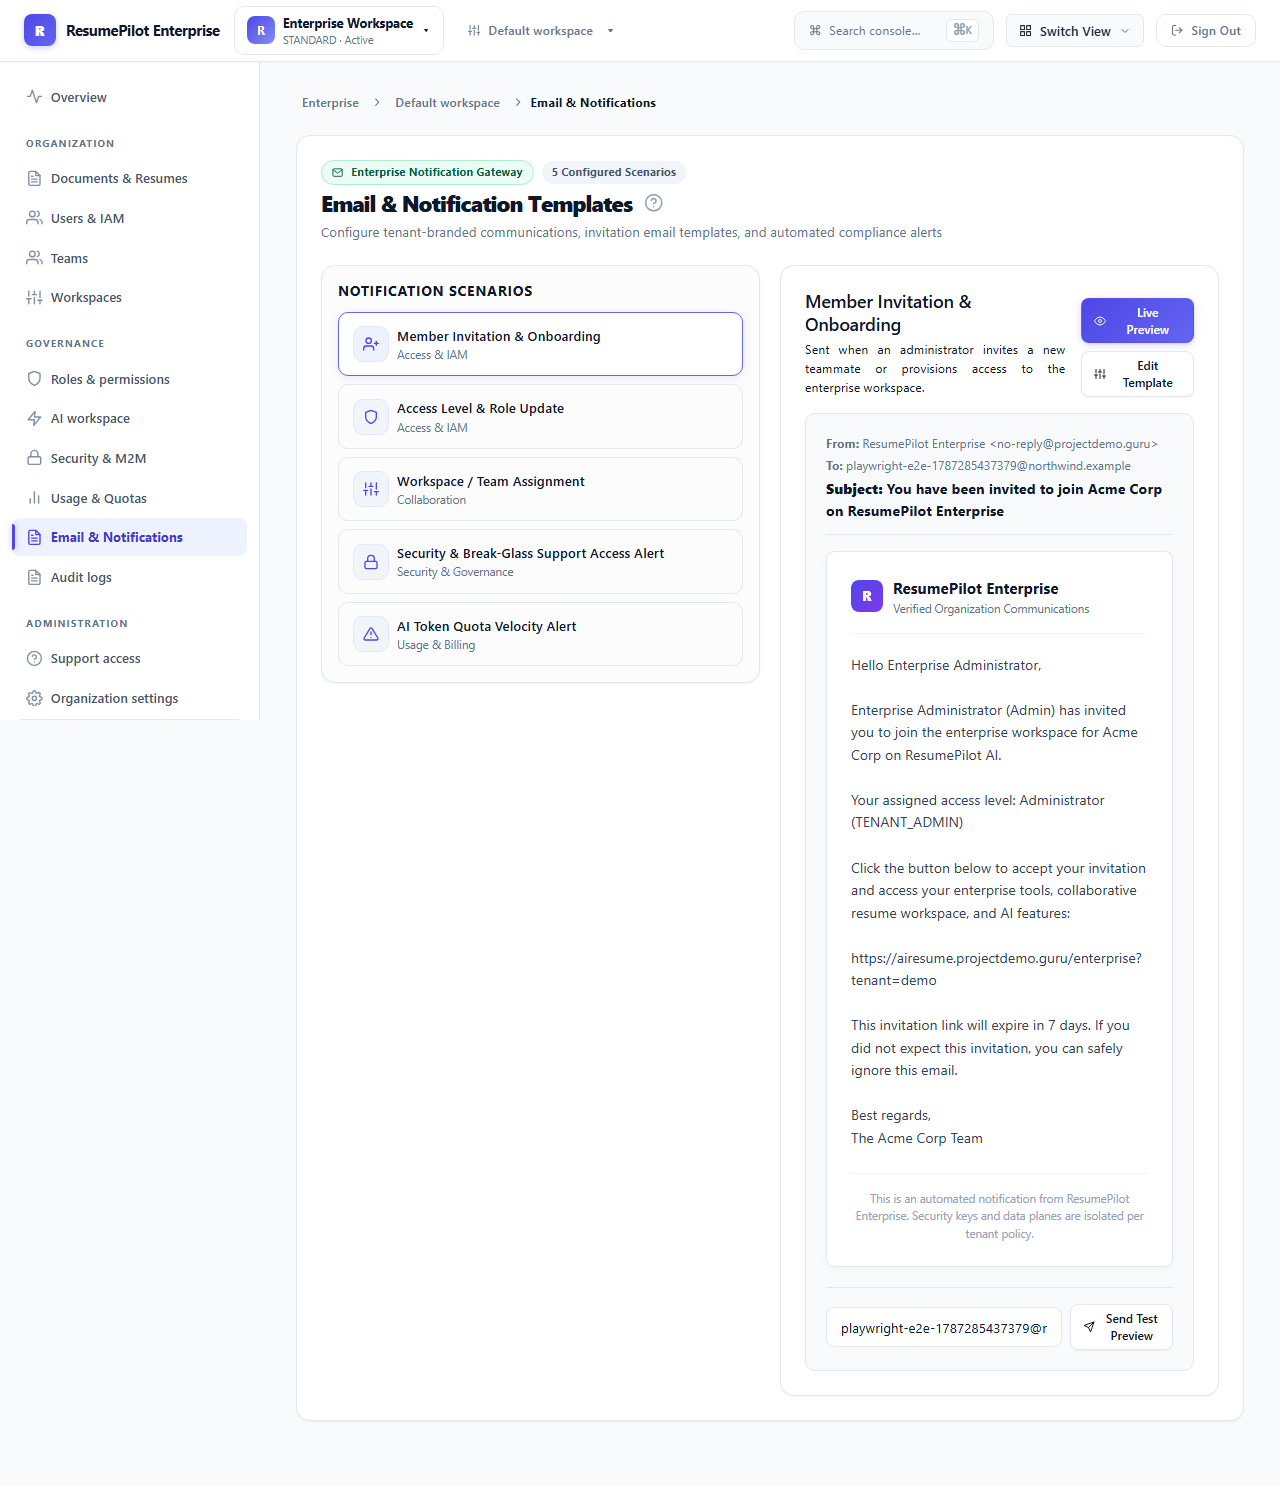
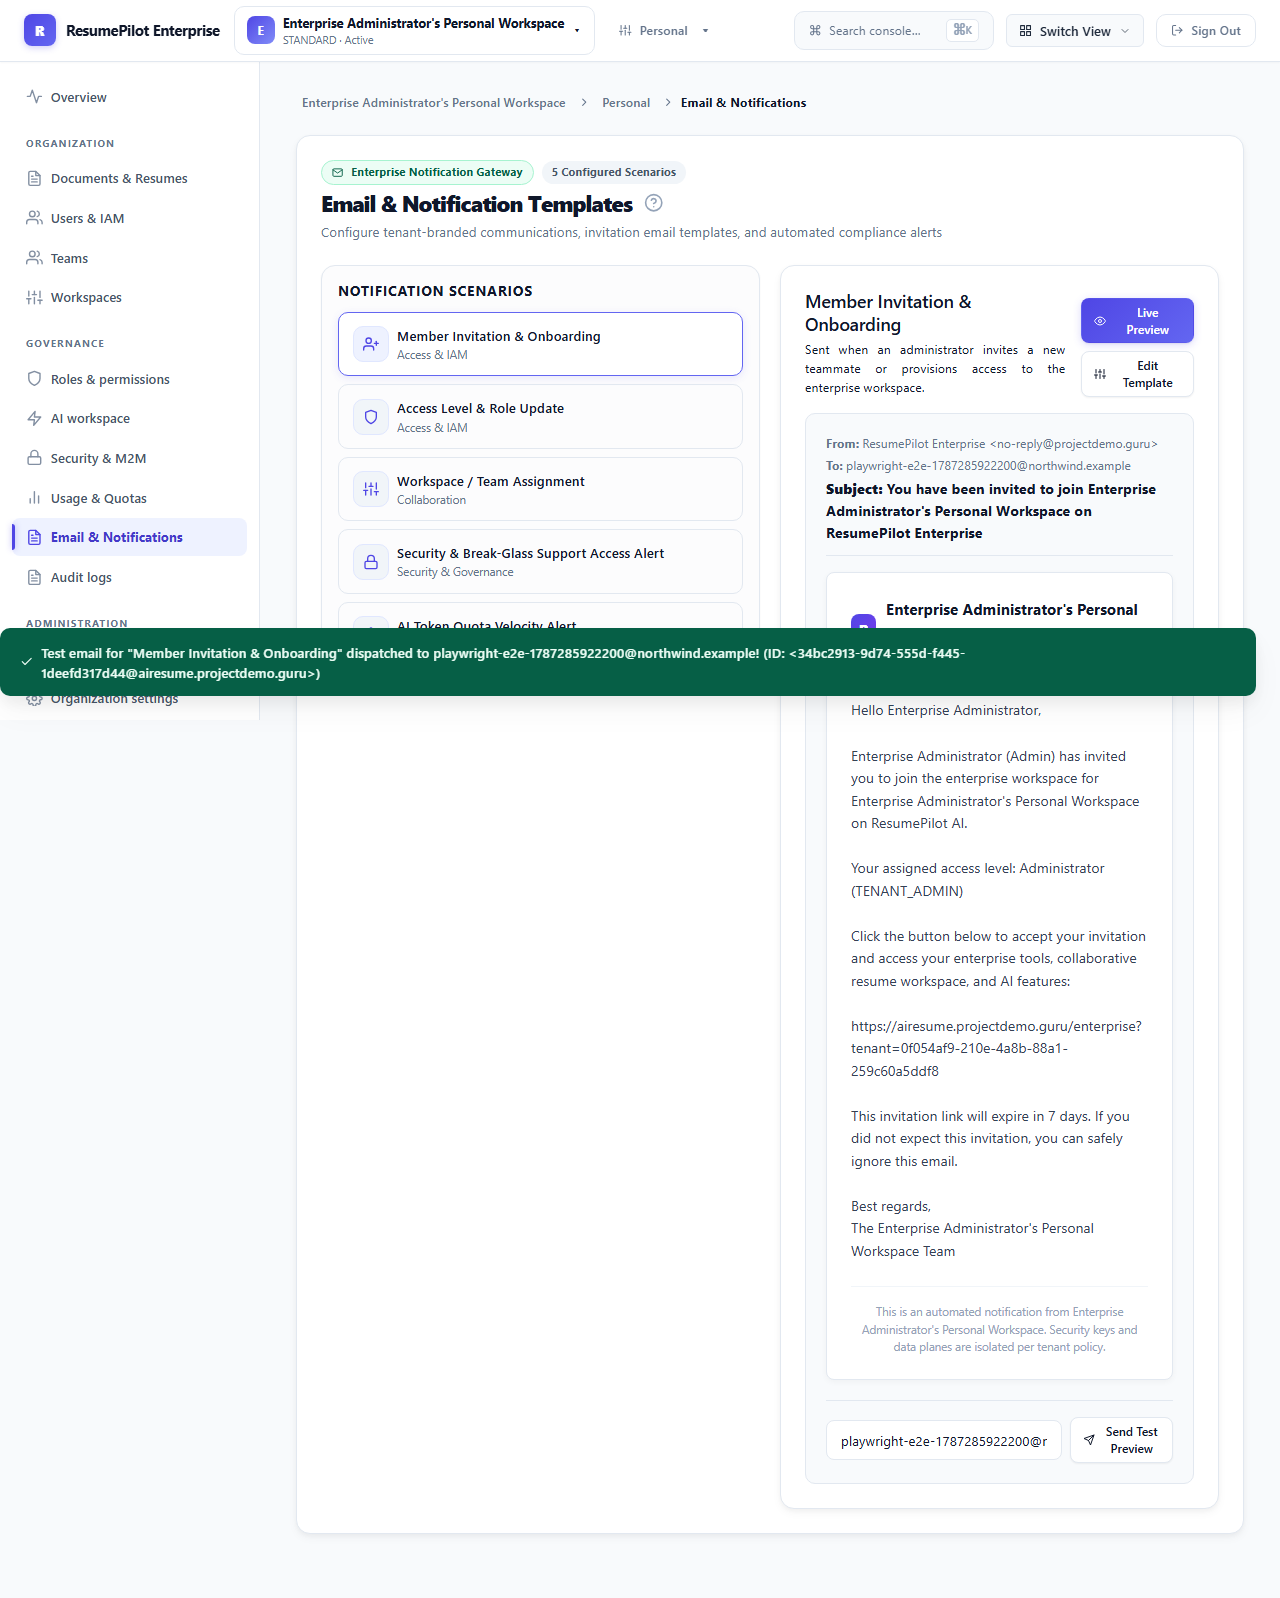
fix(enterprise): fix tooltip positioning/z-index clipping and implement live enterprise email dispatch pipeline

diff --git a/backend/routes/email.js b/backend/routes/email.js
@@ -775,6 +775,96 @@ function renderEmailTemplate(templateType, vars = {}, customHtmlMap = {}) {
             );
             break;
 
+        case 'enterprise-invitation':
+        case 'enterprise_invitation':
+        case 'invitation':
+            subject = vars.subject || `You have been invited to join ${vars.organization_name || 'Acme Corp'} on ResumePilot Enterprise`;
+            bodyHtml = buildEmailWrapper(
+                'Enterprise Workspace Invitation',
+                'ENTERPRISE INVITATION 🏢',
+                `
+                <h2 style="font-size: 20px; font-weight: 800; color: #0f172a; margin-top: 0;">Hello ${candidateName},</h2>
+                <p style="font-size: 14px; color: #475569; line-height: 1.6;">${vars.inviter_name || 'An administrator'} has invited you to join the enterprise organization <strong>${vars.organization_name || 'Enterprise Organization'}</strong> on ResumePilot AI.</p>
+                <div style="background: #f8fafc; border: 1px solid #e2e8f0; border-radius: 12px; padding: 18px; margin: 20px 0;">
+                    <p style="margin: 0 0 8px; font-size: 13px; color: #334155;"><strong>Assigned Access Level:</strong> ${vars.role_title || 'Enterprise Member (MEMBER)'}</p>
+                    <p style="margin: 0; font-size: 13px; color: #64748b;">Accept your invitation to access collaborative workspaces, resume drafting tools, and enterprise AI quotas.</p>
+                </div>
+                <div style="text-align: center; margin-top: 26px;">
+                    <a href="${vars.action_url || `${siteUrl}/enterprise`}" style="background: linear-gradient(135deg, #4f46e5 0%, #7c3aed 100%); color: #ffffff; padding: 14px 32px; text-decoration: none; border-radius: 10px; font-weight: 700; font-size: 14px; display: inline-block;">Accept Enterprise Invitation &rarr;</a>
+                </div>
+                <p style="font-size: 12px; color: #94a3b8; margin-top: 24px; text-align: center;">This invitation link will expire in 7 days. If you did not expect this invitation, you can safely ignore this email.</p>`
+            );
+            break;
+
+        case 'enterprise_role_update':
+        case 'role_update':
+            subject = vars.subject || `Access Level Updated: ${vars.role_title || 'New Role'} — ${vars.organization_name || brandName}`;
+            bodyHtml = buildEmailWrapper(
+                'Access Level Update Notice',
+                'ACCESS & IAM UPDATE 🛡',
+                `
+                <h2 style="font-size: 20px; font-weight: 800; color: #0f172a; margin-top: 0;">Hello ${candidateName},</h2>
+                <p style="font-size: 14px; color: #475569; line-height: 1.6;">Your access permissions for <strong>${vars.organization_name || 'your enterprise organization'}</strong> have been updated by ${vars.updater_name || 'an administrator'}.</p>
+                <div style="background: #eef2ff; border: 1px solid #c7d2fe; border-radius: 12px; padding: 18px; margin: 20px 0;">
+                    <p style="margin: 0; font-size: 14px; color: #3730a3; font-weight: 700;">New Access Role: ${vars.role_title || 'Updated Role'}</p>
+                </div>
+                <div style="text-align: center; margin-top: 24px;">
+                    <a href="${vars.action_url || `${siteUrl}/enterprise`}" style="background-color: #4f46e5; color: #ffffff; padding: 12px 28px; text-decoration: none; border-radius: 10px; font-weight: 700; font-size: 13px; display: inline-block;">Open Enterprise Console &rarr;</a>
+                </div>`
+            );
+            break;
+
+        case 'enterprise_workspace_assignment':
+        case 'workspace_assignment':
+            subject = vars.subject || `Assigned to ${vars.workspace_name || 'Workspace'} — ${vars.organization_name || brandName}`;
+            bodyHtml = buildEmailWrapper(
+                'Workspace Assignment',
+                'COLLABORATION UPDATE 🗂',
+                `
+                <h2 style="font-size: 20px; font-weight: 800; color: #0f172a; margin-top: 0;">Hello ${candidateName},</h2>
+                <p style="font-size: 14px; color: #475569; line-height: 1.6;">You have been assigned to workspace <strong>${vars.workspace_name || 'Workspace'}</strong> ${vars.team_name ? `and team <strong>${vars.team_name}</strong>` : ''} in ${vars.organization_name || 'ResumePilot Enterprise'}.</p>
+                <div style="text-align: center; margin-top: 24px;">
+                    <a href="${vars.action_url || `${siteUrl}/enterprise`}" style="background-color: #4f46e5; color: #ffffff; padding: 12px 28px; text-decoration: none; border-radius: 10px; font-weight: 700; font-size: 13px; display: inline-block;">Go to Workspace &rarr;</a>
+                </div>`
+            );
+            break;
+
+        case 'enterprise_security_alert':
+        case 'security_alert':
+            subject = vars.subject || `🚨 Security Alert: Break-Glass Support Access — ${vars.organization_name || brandName}`;
+            bodyHtml = buildEmailWrapper(
+                'Enterprise Security Alert',
+                'SECURITY ALERT 🚨',
+                `
+                <div style="background: #fef2f2; border: 1px solid #fecaca; border-radius: 12px; padding: 20px; margin-bottom: 20px;">
+                    <h3 style="color: #991b1b; margin: 0 0 6px 0; font-size: 16px; font-weight: 800;">Emergency Break-Glass Access Granted</h3>
+                    <p style="color: #7f1d1d; margin: 0; font-size: 13px; line-height: 1.5;">A time-bound support grant was authorized for support engineer <strong>${vars.support_agent || 'Support Engineer'}</strong>.</p>
+                </div>
+                <p style="font-size: 13px; color: #475569;"><strong>Reason:</strong> ${vars.reason || 'Technical investigation'}</p>
+                <p style="font-size: 13px; color: #475569;"><strong>Expires:</strong> ${vars.expires_at || 'In 4 hours'}</p>
+                <div style="text-align: center; margin-top: 24px;">
+                    <a href="${vars.action_url || `${siteUrl}/enterprise?tab=audit`}" style="background-color: #dc2626; color: #ffffff; padding: 12px 28px; text-decoration: none; border-radius: 10px; font-weight: 700; font-size: 13px; display: inline-block;">Review Audit Log &rarr;</a>
+                </div>`
+            );
+            break;
+
+        case 'enterprise_quota_alert':
+        case 'quota_alert':
+            subject = vars.subject || `⚠ AI Quota Alert: ${vars.usage_percent || '80'}% Consumed — ${vars.organization_name || brandName}`;
+            bodyHtml = buildEmailWrapper(
+                'AI Quota Alert',
+                'QUOTA WARNING ⚡',
+                `
+                <div style="background: #fffbeb; border: 1px solid #fef3c7; border-radius: 12px; padding: 20px; margin-bottom: 20px;">
+                    <h3 style="color: #92400e; margin: 0 0 6px 0; font-size: 16px; font-weight: 800;">Token Consumption Velocity Alert</h3>
+                    <p style="color: #b45309; margin: 0; font-size: 13px; line-height: 1.5;">Your organization has consumed <strong>${vars.usage_percent || '85'}%</strong> of its monthly AI token allocation (${vars.consumed_tokens || '850,000'} / ${vars.quota_limit || '1,000,000'} tokens).</p>
+                </div>
+                <div style="text-align: center; margin-top: 24px;">
+                    <a href="${vars.action_url || `${siteUrl}/enterprise?tab=usage`}" style="background-color: #d97706; color: #ffffff; padding: 12px 28px; text-decoration: none; border-radius: 10px; font-weight: 700; font-size: 13px; display: inline-block;">Inspect Token Usage &rarr;</a>
+                </div>`
+            );
+            break;
+
         default:
             subject = vars.subject || `Notification from ${brandName}`;
             bodyHtml = buildEmailWrapper(

diff --git a/src/enterprise/enterprise.css b/src/enterprise/enterprise.css
@@ -2681,12 +2681,10 @@ details.enterprise-disclosure[open] > summary::before { content: '▾ '; }
   cursor: help;
 }
 
+/* Base Tooltip Bubble */
 [data-tooltip]::after {
   content: attr(data-tooltip);
   position: absolute;
-  bottom: calc(100% + 8px);
-  left: 50%;
-  transform: translateX(-50%) translateY(4px);
   background: #0f172a;
   color: #f8fafc;
   font-size: 0.74rem;
@@ -2702,16 +2700,80 @@ details.enterprise-disclosure[open] > summary::before { content: '▾ '; }
   opacity: 0;
   visibility: hidden;
   transition: opacity 0.15s ease, transform 0.15s ease;
-  z-index: 2000;
-  box-shadow: 0 10px 25px -5px rgba(0, 0, 0, 0.25), 0 8px 10px -6px rgba(0, 0, 0, 0.1);
-  border: 1px solid rgba(255, 255, 255, 0.15);
+  z-index: 999999 !important;
+  box-shadow: 0 10px 25px -5px rgba(0, 0, 0, 0.35), 0 8px 10px -6px rgba(0, 0, 0, 0.2);
+  border: 1px solid rgba(255, 255, 255, 0.18);
+}
+
+/* Default / Top Position */
+[data-tooltip]::after,
+[data-tooltip][data-tooltip-pos="top"]::after {
+  bottom: calc(100% + 8px);
+  top: auto;
+  left: 50%;
+  right: auto;
+  transform: translateX(-50%) translateY(4px);
 }
 
 [data-tooltip]:hover::after,
-[data-tooltip]:focus-visible::after {
+[data-tooltip]:focus-visible::after,
+[data-tooltip][data-tooltip-pos="top"]:hover::after,
+[data-tooltip][data-tooltip-pos="top"]:focus-visible::after {
   opacity: 1;
   visibility: visible;
   transform: translateX(-50%) translateY(0);
+  z-index: 999999 !important;
+}
+
+/* Bottom Position (Ideal for Page Headers & Top Navigation Elements) */
+[data-tooltip][data-tooltip-pos="bottom"]::after {
+  top: calc(100% + 8px);
+  bottom: auto;
+  left: 50%;
+  right: auto;
+  transform: translateX(-50%) translateY(-4px);
+}
+
+[data-tooltip][data-tooltip-pos="bottom"]:hover::after,
+[data-tooltip][data-tooltip-pos="bottom"]:focus-visible::after {
+  opacity: 1;
+  visibility: visible;
+  transform: translateX(-50%) translateY(0);
+  z-index: 999999 !important;
+}
+
+/* Right Position */
+[data-tooltip][data-tooltip-pos="right"]::after {
+  left: calc(100% + 8px);
+  right: auto;
+  top: 50%;
+  bottom: auto;
+  transform: translateY(-50%) translateX(-4px);
+}
+
+[data-tooltip][data-tooltip-pos="right"]:hover::after,
+[data-tooltip][data-tooltip-pos="right"]:focus-visible::after {
+  opacity: 1;
+  visibility: visible;
+  transform: translateY(-50%) translateX(0);
+  z-index: 999999 !important;
+}
+
+/* Left Position */
+[data-tooltip][data-tooltip-pos="left"]::after {
+  right: calc(100% + 8px);
+  left: auto;
+  top: 50%;
+  bottom: auto;
+  transform: translateY(-50%) translateX(4px);
+}
+
+[data-tooltip][data-tooltip-pos="left"]:hover::after,
+[data-tooltip][data-tooltip-pos="left"]:focus-visible::after {
+  opacity: 1;
+  visibility: visible;
+  transform: translateY(-50%) translateX(0);
+  z-index: 999999 !important;
 }
 
 /* Help Tooltip Icon '?' Badge */

diff --git a/backend/routes/enterprise.js b/backend/routes/enterprise.js
@@ -824,6 +824,46 @@ router.post('/storage/verify', resolveTenantContext, requireTenantPermission('re
   }
 });
 
+router.post('/test-email', resolveTenantContext, requireTenantPermission('tenant.settings.write'), async (req, res) => {
+  const recipient = String(req.body?.recipientEmail || req.user?.email || '').trim().toLowerCase();
+  if (!/^[^\s@,;<>]{1,64}@[^\s@,;<>]{1,190}$/.test(recipient)) {
+    return res.status(400).json({ error: { code: 'INVALID_RECIPIENT', message: 'A valid recipient email address is required', requestId: res.locals?.requestId } });
+  }
+  const templateId = String(req.body?.templateId || 'invitation').trim();
+  const customSubject = req.body?.customSubject ? String(req.body.customSubject).slice(0, 200) : null;
+  const customBody = req.body?.customBody ? String(req.body.customBody).slice(0, 5000) : null;
+  
+  try {
+    const emailRoute = require('./email');
+    const { db } = outboxRuntime(req);
+    const result = await emailRoute.dispatchNotification(db, {
+      to: recipient,
+      templateType: templateId,
+      vars: {
+        organization_name: req.tenant?.displayName || 'ResumePilot Enterprise',
+        inviter_name: req.user?.displayName || 'Enterprise Administrator',
+        candidate_name: req.user?.displayName || 'Enterprise User',
+        user_name: req.user?.displayName || 'Enterprise User',
+        role_title: 'Administrator (TENANT_ADMIN)',
+        workspace_name: req.workspace?.name || 'Main Workspace',
+        team_name: 'Core Engineering',
+        action_url: `https://airesume.projectdemo.guru/enterprise?tenant=${req.tenant?.id || 'demo'}`,
+        usage_percent: '85',
+        consumed_tokens: '850,000',
+        quota_limit: '1,000,000',
+      },
+      customSubject,
+      customBody,
+    });
+    if (!result?.success && result?.error) {
+      return res.status(502).json({ error: { code: 'EMAIL_DISPATCH_FAILED', message: result.error, requestId: res.locals?.requestId } });
+    }
+    return res.json({ success: true, messageId: result?.result?.messageId || 'SENT', recipient });
+  } catch (error) {
+    return res.status(503).json({ error: { code: error.code || 'EMAIL_SERVICE_UNAVAILABLE', message: error.message || 'Email delivery service is unavailable', requestId: res.locals?.requestId } });
+  }
+});
+
 router.post('/tenants', async (req, res) => {
   try {
     const result = await enterpriseService(req).provisionTenant({ user: req.user, input: req.body || {}, requestId: res.locals?.requestId });

diff --git a/tests/test-live-authenticated-enterprise.spec.js b/tests/test-live-authenticated-enterprise.spec.js
@@ -264,6 +264,16 @@ test.describe('Live Authenticated Enterprise E2E Audit', () => {
     console.log('Testing Module: Email & Notifications...');
     await page.locator('button.enterprise-nav-item').filter({ hasText: 'Email & Notifications' }).click();
     await expect(page.locator('h2.enterprise-tab-title').filter({ hasText: 'Email & Notification Templates' })).toBeVisible();
+    
+    // Dispatch test email preview
+    const sendTestBtn = page.locator('button').filter({ hasText: 'Send Test Preview' }).first();
+    if (await sendTestBtn.isVisible()) {
+      console.log('Testing Test Email Dispatch Action...');
+      await sendTestBtn.click();
+      await page.waitForTimeout(1000);
+      await expect(page.locator('.enterprise-toast-success, .enterprise-toast')).toBeVisible({ timeout: 8000 });
+    }
+    
     await page.screenshot({ path: path.resolve('enterprise_live_email_templates.png'), fullPage: true });
 
     // ─────────────────────────────────────────────────────────────

diff --git a/src/enterprise/components/EnterpriseEmailTab.jsx b/src/enterprise/components/EnterpriseEmailTab.jsx
@@ -113,11 +113,18 @@ export default function EnterpriseEmailTab() {
     setSendingTest(true);
     setActionError(null);
     try {
-      // Send test invitation / template preview
-      await new Promise(r => setTimeout(r, 900));
-      notify(`Test email template for "${currentTemplate.name}" sent to ${testEmail}!`);
+      const result = await request('/api/enterprise/test-email', {
+        method: 'POST',
+        body: {
+          templateId: currentTemplate.id,
+          recipientEmail: testEmail,
+          customSubject: currentTemplate.subject,
+          customBody: currentTemplate.body,
+        },
+      });
+      notify(`Test email for "${currentTemplate.name}" dispatched to ${testEmail}! ${result?.messageId && result.messageId !== 'SENT' ? `(ID: ${result.messageId})` : ''}`);
     } catch (err) {
-      setActionError(err?.message || 'Failed to dispatch test email.');
+      setActionError(err?.message || 'Failed to dispatch test email. Verify SMTP settings in Administration.');
     } finally {
       setSendingTest(false);
     }

diff --git a/src/enterprise/components/HelpTooltip.jsx b/src/enterprise/components/HelpTooltip.jsx
@@ -11,7 +11,7 @@ import { FiHelpCircle } from 'react-icons/fi';
  * @param {string} [props.className=''] - Additional class names
  * @param {string} [props.label='Help guide'] - Accessible screen reader label
  */
-export default function HelpTooltip({ text, position = 'top', className = '', label = 'Help guide' }) {
+export default function HelpTooltip({ text, position = 'bottom', className = '', label = 'Help guide' }) {
   if (!text) return null;
 
   return (
